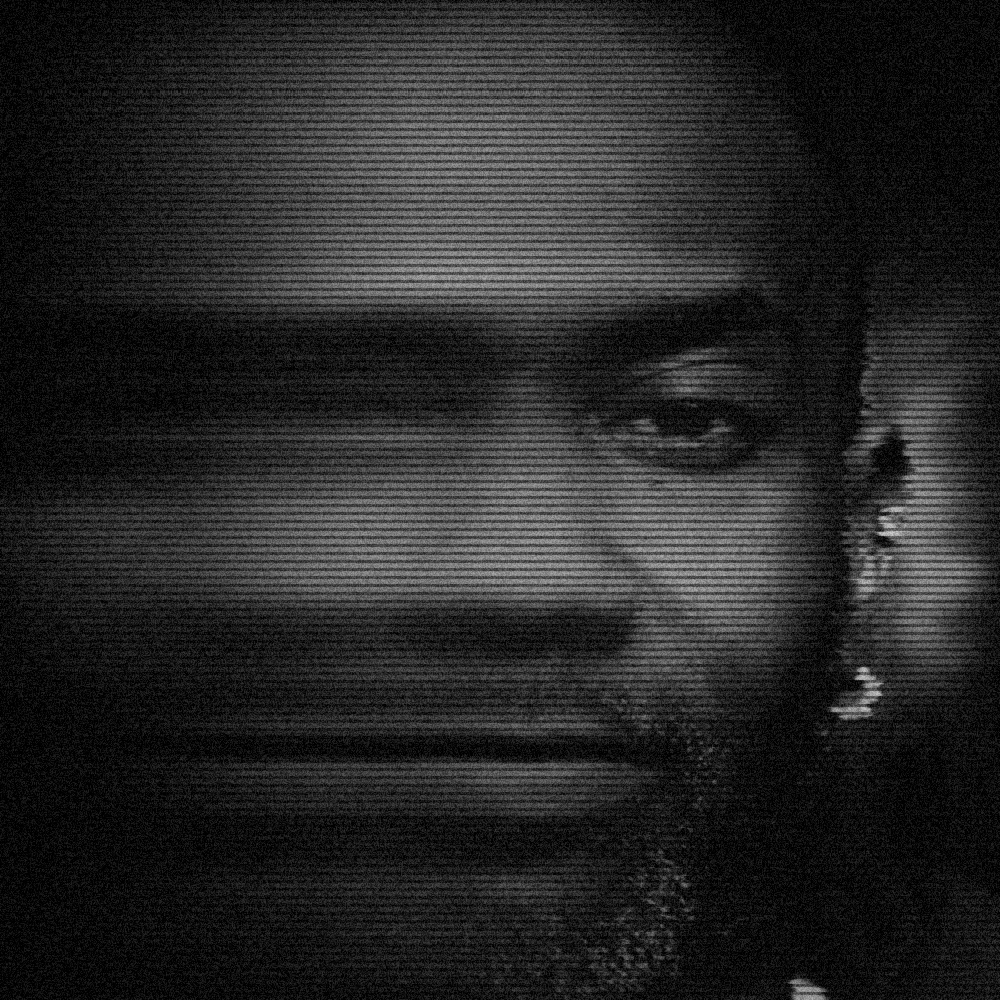
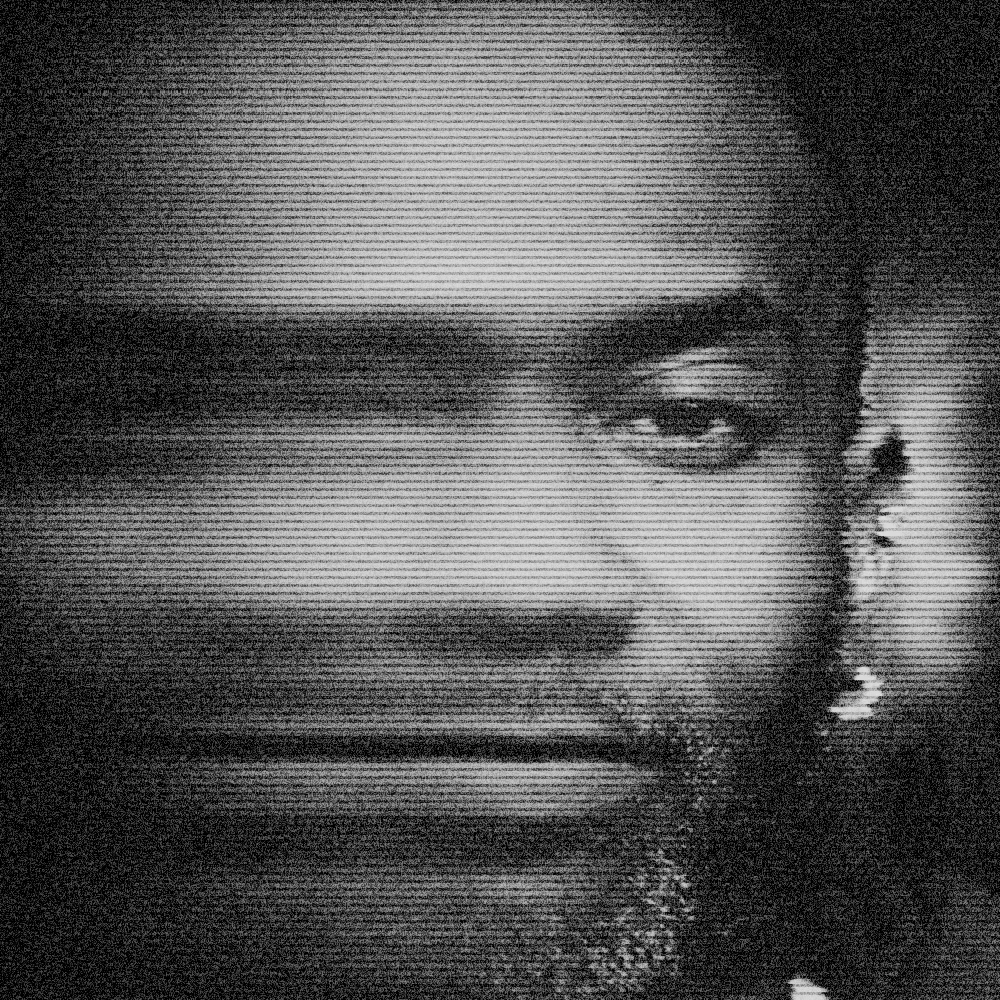
feat(site): portrait tone match to the existing artist set; Paul Johnson and Jeff Craven re-rendered
Final step maps each portrait's 5/25/50/75/95th luminance percentiles onto the
values measured on 8 existing artist images (21/34/68/137/192), so black floor,
midtones and highlights match.

Claude-Session: https://claude.ai/code/session_01PWtAhM9MkYBQfJQadkaEkN

diff --git a/ARTIST_PORTRAITS.md b/ARTIST_PORTRAITS.md
@@ -17,7 +17,7 @@ same treatment before they are added.
    `img/about/<slug>/portrait.webp`, commit the WebP, merge, and deploy the site.
 5. Check the DJs page and the artist page next to two existing artists.
 
-Tuning: `CURVE` (tone), `SM` (trail length), `SH` (trail shift), `HB`/`BL`/`BR` (left blur), `LS` (left shade, for evenly lit photos). The defaults are tuned on
+Tuning: `CURVE` (tone), `SM` (trail length), `SH` (trail shift), `HB`/`BL`/`BR` (left blur), `LS` (left shade, for evenly lit photos). The script ends with a tone match (TONE=1, default) that maps each portrait onto the existing set's black floor, midtones and highlights. The defaults are tuned on
 a low-key photo (dark background); a bright photo may need a darker `CURVE` (see the script).
 
 The DJs page lists artists alphabetically by name.
